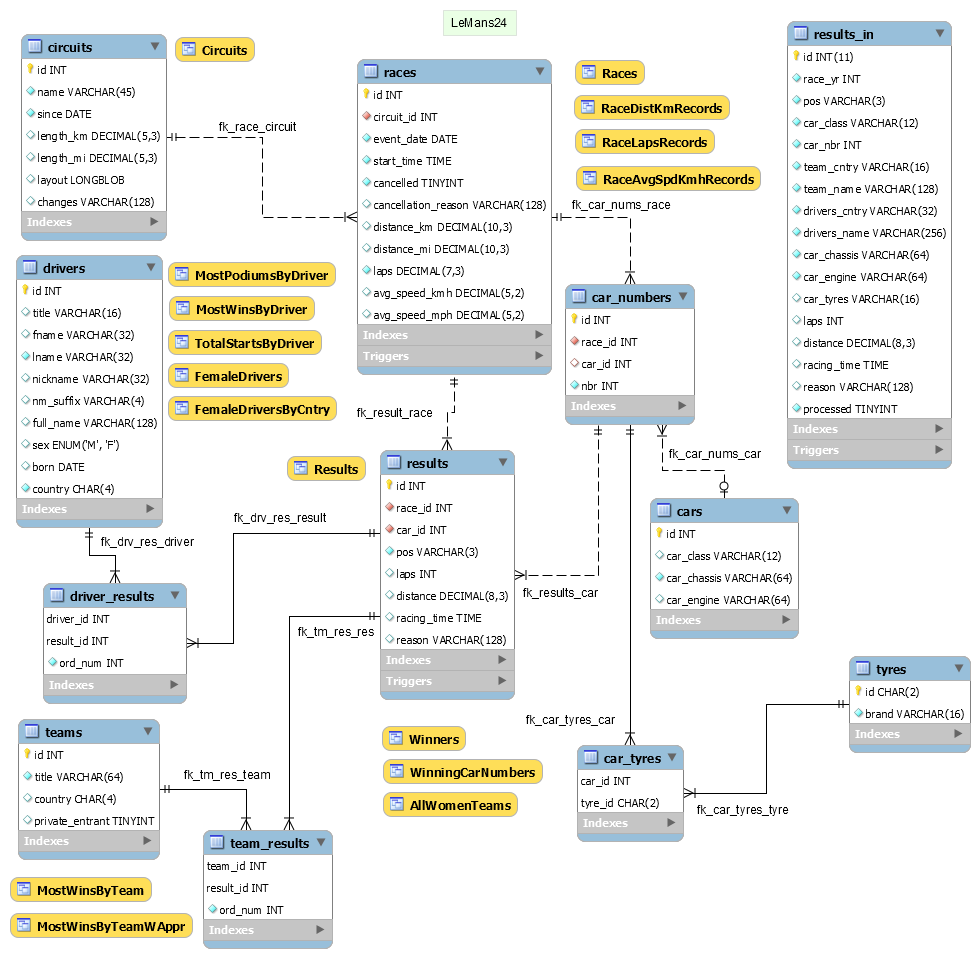
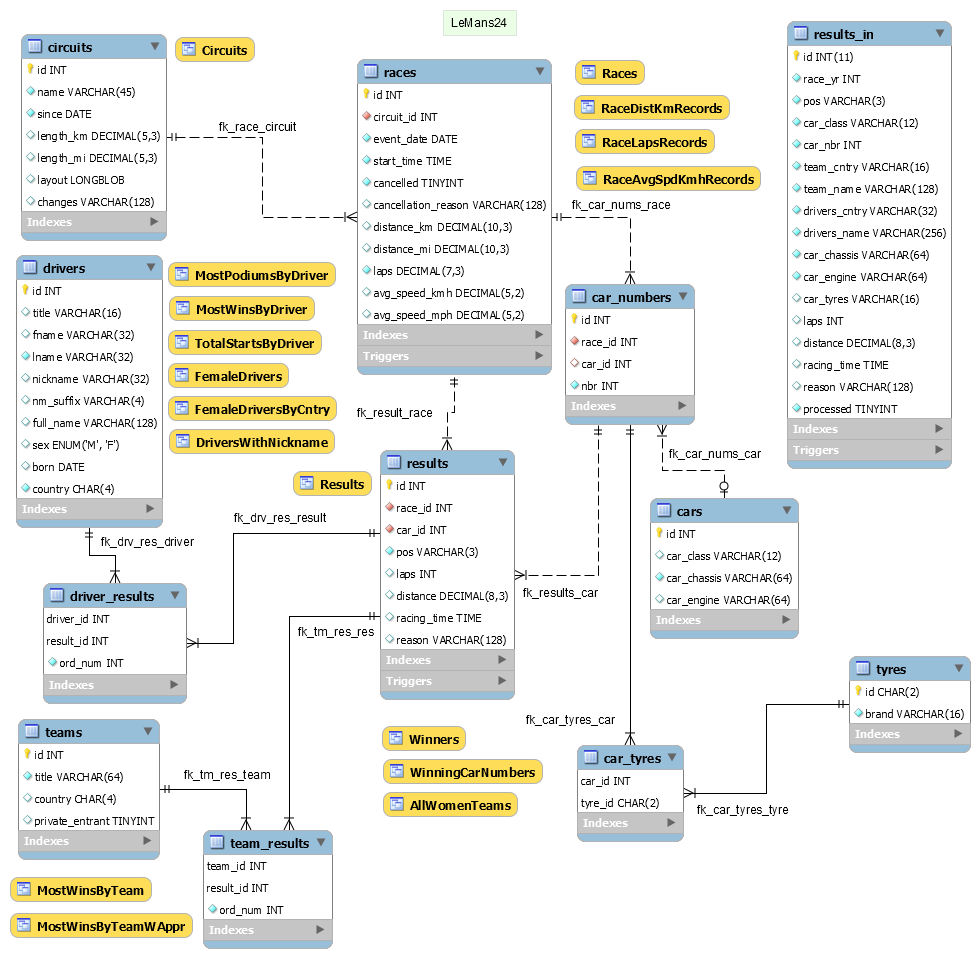
Add view for drivers with nickname

Changed region(s): [[0.1531, 0.4238, 0.398, 0.5449]]

diff --git a/README.md b/README.md
@@ -44,6 +44,7 @@ The model is in file [lemans24.mwb](db/model/lemans24.mwb) and is graphically re
 
 * `AllWomenTeams`        - List all women teams with their results
 * `Circuits`             - List circuits length and changes per years
+* `DriversWithNickname`  - List of drivers having a nickname
 * `FemaleDrivers`        - List all female drivers with years and achievements
 * `FemaleDriversByCntry` - Female drivers by country
 * `MostPodiumsByDriver`  - Most podiums by driver
